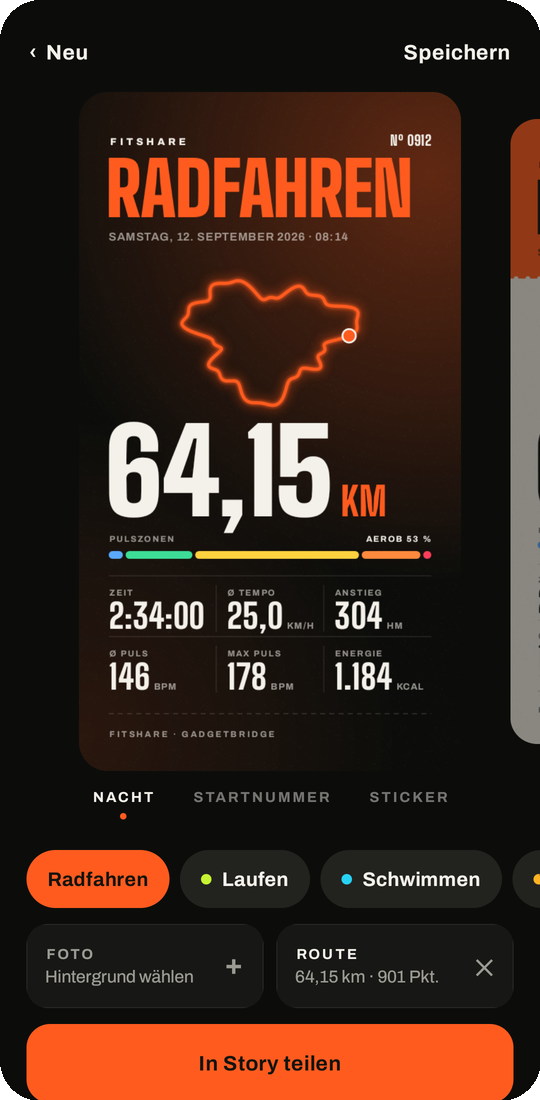
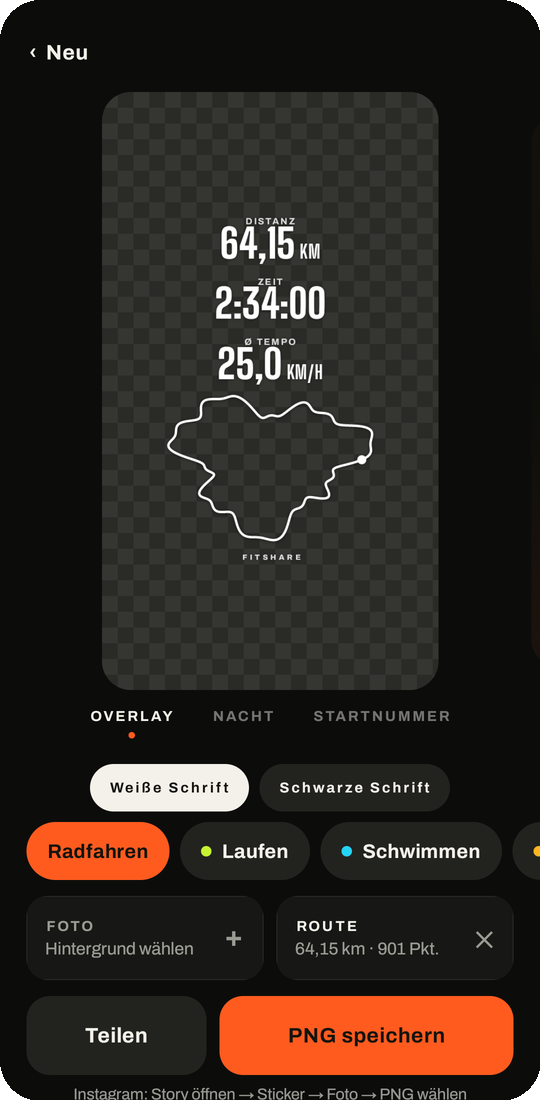
feat: Overlay-PNG im Strava-Stil als Hauptfunktion
- neuer Stil "Overlay": Distanz, Zeit, Tempo gestapelt, Route darunter,
  transparent und auf den Inhalt zugeschnitten; ersetzt den Vollbild-Sticker
- Schrift weiß oder schwarz, Vorschau auf passendem Schachbrett oder dem eigenen Foto
- "PNG speichern" ist der Hauptknopf, Teilen daneben, Instagram-Hinweis darunter
- README und Social-Preview zeigen das Overlay

diff --git a/app/src/main/java/com/fitshare/ui/screens/EditorScreen.kt b/app/src/main/java/com/fitshare/ui/screens/EditorScreen.kt
@@ -10,6 +10,7 @@ import androidx.activity.compose.BackHandler
 import androidx.activity.compose.rememberLauncherForActivityResult
 import androidx.activity.result.PickVisualMediaRequest
 import androidx.activity.result.contract.ActivityResultContracts
+import androidx.compose.animation.AnimatedVisibility
 import androidx.compose.animation.Crossfade
 import androidx.compose.animation.animateColorAsState
 import androidx.compose.foundation.Image
@@ -54,6 +55,7 @@ import androidx.compose.ui.geometry.Size
 import androidx.compose.ui.graphics.Color
 import androidx.compose.ui.graphics.asImageBitmap
 import androidx.compose.ui.graphics.graphicsLayer
+import androidx.compose.ui.layout.ContentScale
 import androidx.compose.ui.platform.LocalContext
 import androidx.compose.ui.platform.LocalView
 import androidx.compose.ui.semantics.contentDescription
@@ -109,8 +111,10 @@ fun EditorScreen(state: UiState, vm: WorkoutViewModel) {
     LaunchedEffect(pager.settledPage) { prefs.edit().putInt("style", pager.settledPage).apply() }
     val style = StoryStyle.entries[pager.currentPage]
     var busy by remember { mutableStateOf(false) }
+    var darkInk by remember { mutableStateOf(prefs.getBoolean("darkInk", false)) }
+    LaunchedEffect(darkInk) { prefs.edit().putBoolean("darkInk", darkInk).apply() }
 
-    fun renderFull() = StoryRenderer.render(ctx, workout, style, background)
+    fun renderFull() = StoryRenderer.render(ctx, workout, style, background, darkInk = darkInk)
 
     fun save() = scope.launch {
         busy = true
@@ -134,11 +138,6 @@ fun EditorScreen(state: UiState, vm: WorkoutViewModel) {
             horizontalArrangement = Arrangement.SpaceBetween
         ) {
             TextAction("‹  Neu") { vm.reset() }
-            TextAction("Speichern", enabled = !busy) {
-                val needsPermission = Build.VERSION.SDK_INT < Build.VERSION_CODES.Q &&
-                    ContextCompat.checkSelfPermission(ctx, Manifest.permission.WRITE_EXTERNAL_STORAGE) != PackageManager.PERMISSION_GRANTED
-                if (needsPermission) storagePermission.launch(Manifest.permission.WRITE_EXTERNAL_STORAGE) else save()
-            }
         }
 
         // story pages: swipe between styles; neighbours peek in, scaled back
@@ -149,9 +148,10 @@ fun EditorScreen(state: UiState, vm: WorkoutViewModel) {
             modifier = Modifier.weight(1f).fillMaxWidth().padding(vertical = 8.dp)
         ) { page ->
             val pageStyle = StoryStyle.entries[page]
-            val preview by produceState<Bitmap?>(null, workout, pageStyle, background) {
-                value = withContext(Dispatchers.Default) { StoryRenderer.render(ctx, workout, pageStyle, background, 0.5f) }
+            val preview by produceState<Bitmap?>(null, workout, pageStyle, background, darkInk) {
+                value = withContext(Dispatchers.Default) { StoryRenderer.render(ctx, workout, pageStyle, background, 0.5f, darkInk) }
             }
+            val overlay = pageStyle == StoryStyle.OVERLAY
             Box(Modifier.fillMaxSize(), contentAlignment = Alignment.Center) {
                 Box(
                     Modifier
@@ -164,11 +164,20 @@ fun EditorScreen(state: UiState, vm: WorkoutViewModel) {
                             alpha = 1f - 0.45f * off
                         }
                         .clip(RoundedCornerShape(22.dp))
-                        .then(if (pageStyle == StoryStyle.STICKER) Modifier.checkerboard() else Modifier.background(Raised))
-                        .semantics { contentDescription = "Vorschau Stil ${pageStyle.label}" }
+                        .then(if (overlay) Modifier.checkerboard(light = darkInk) else Modifier.background(Raised))
+                        .semantics { contentDescription = "Vorschau Stil ${pageStyle.label}" },
+                    contentAlignment = Alignment.Center
                 ) {
+                    // the overlay is previewed on your photo if you picked one; the PNG itself stays transparent
+                    if (overlay && background != null) {
+                        Image(background!!.asImageBitmap(), null, Modifier.fillMaxSize(), contentScale = ContentScale.Crop)
+                    }
                     Crossfade(preview, label = "preview") { bmp ->
-                        if (bmp != null) Image(bmp.asImageBitmap(), null, Modifier.fillMaxSize())
+                        if (bmp != null) Image(
+                            bmp.asImageBitmap(), null,
+                            Modifier.fillMaxSize().padding(if (overlay) 18.dp else 0.dp),
+                            contentScale = ContentScale.Fit
+                        )
                     }
                 }
             }
@@ -190,6 +199,14 @@ fun EditorScreen(state: UiState, vm: WorkoutViewModel) {
                     Spacer(Modifier.height(6.dp))
                     Box(Modifier.size(5.dp).clip(CircleShape).background(if (selected) accent else Color.Transparent))
                 }
+            }
+        }
+
+        AnimatedVisibility(style == StoryStyle.OVERLAY) {
+            Row(Modifier.fillMaxWidth().padding(top = 4.dp), horizontalArrangement = Arrangement.Center) {
+                InkOption("Weiße Schrift", selected = !darkInk) { darkInk = false }
+                Spacer(Modifier.width(8.dp))
+                InkOption("Schwarze Schrift", selected = darkInk) { darkInk = true }
             }
         }
 
@@ -252,27 +269,56 @@ fun EditorScreen(state: UiState, vm: WorkoutViewModel) {
 
         Spacer(Modifier.height(12.dp))
 
-        BigButton(
-            "In Story teilen",
-            Modifier.padding(horizontal = 20.dp),
-            color = accent,
-            busy = busy
-        ) {
-            view.performHapticFeedback(
-                if (Build.VERSION.SDK_INT >= 30) HapticFeedbackConstants.CONFIRM else HapticFeedbackConstants.VIRTUAL_KEY
-            )
-            scope.launch {
-                busy = true
-                try {
-                    val bmp = withContext(Dispatchers.Default) { renderFull() }
-                    ShareHelper.share(ctx, ShareHelper.cacheForSharing(ctx, bmp))
-                } catch (e: Exception) {
-                    Toast.makeText(ctx, "Teilen fehlgeschlagen: ${e.message}", Toast.LENGTH_LONG).show()
-                } finally {
-                    busy = false
-                }
+        Row(Modifier.fillMaxWidth().padding(horizontal = 20.dp), horizontalArrangement = Arrangement.spacedBy(10.dp)) {
+            Box(
+                Modifier
+                    .weight(0.38f)
+                    .pressable(enabled = !busy) {
+                        scope.launch {
+                            busy = true
+                            try {
+                                val bmp = withContext(Dispatchers.Default) { renderFull() }
+                                ShareHelper.share(ctx, ShareHelper.cacheForSharing(ctx, bmp))
+                            } catch (e: Exception) {
+                                Toast.makeText(ctx, "Teilen fehlgeschlagen: ${e.message}", Toast.LENGTH_LONG).show()
+                            } finally {
+                                busy = false
+                            }
+                        }
+                    }
+                    .clip(RoundedCornerShape(18.dp))
+                    .background(Raised2)
+                    .heightIn(min = 60.dp),
+                contentAlignment = Alignment.Center
+            ) {
+                Text("Teilen", style = Type.button.copy(color = Bone))
+            }
+            BigButton("PNG speichern", Modifier.weight(0.62f), color = accent, busy = busy) {
+                view.performHapticFeedback(
+                    if (Build.VERSION.SDK_INT >= 30) HapticFeedbackConstants.CONFIRM else HapticFeedbackConstants.VIRTUAL_KEY
+                )
+                val needsPermission = Build.VERSION.SDK_INT < Build.VERSION_CODES.Q &&
+                    ContextCompat.checkSelfPermission(ctx, Manifest.permission.WRITE_EXTERNAL_STORAGE) != PackageManager.PERMISSION_GRANTED
+                if (needsPermission) storagePermission.launch(Manifest.permission.WRITE_EXTERNAL_STORAGE) else save()
             }
         }
+        Text(
+            if (style == StoryStyle.OVERLAY) "Instagram: Story öffnen → Sticker → Foto → PNG wählen"
+            else "Fertige Story 1080 × 1920, als Hintergrund in Instagram",
+            style = Type.body.copy(fontSize = Type.label.fontSize * 1.1f),
+            modifier = Modifier.align(Alignment.CenterHorizontally).padding(top = 8.dp)
+        )
+    }
+}
+
+@Composable
+private fun InkOption(text: String, selected: Boolean, onClick: () -> Unit) {
+    val bg by animateColorAsState(if (selected) Bone else Raised2, uiSpring(), label = "ink")
+    Box(
+        Modifier.pressable(onClick = onClick).clip(CircleShape).background(bg).heightIn(min = 36.dp).padding(horizontal = 14.dp),
+        contentAlignment = Alignment.Center
+    ) {
+        Text(text, style = Type.label.copy(color = if (selected) OnAccent else Bone))
     }
 }
 
@@ -324,13 +370,13 @@ private fun ToolTile(
 }
 
 /** Grey checkerboard behind the transparent sticker preview, like any image editor. */
-private fun Modifier.checkerboard() = drawBehind {
+private fun Modifier.checkerboard(light: Boolean) = drawBehind {
     val tile = 12.dp.toPx()
-    drawRect(Color(0xFF2A2B27))
+    drawRect(if (light) Color(0xFFE9E6DE) else Color(0xFF2A2B27))
     var y = 0f; var row = 0
     while (y < size.height) {
         var x = if (row % 2 == 0) 0f else tile
-        while (x < size.width) { drawRect(Color(0xFF353631), Offset(x, y), Size(tile, tile)); x += tile * 2 }
+        while (x < size.width) { drawRect(if (light) Color(0xFFD9D5CB) else Color(0xFF353631), Offset(x, y), Size(tile, tile)); x += tile * 2 }
         y += tile; row++
     }
 }

diff --git a/app/src/main/java/com/fitshare/export/StoryRenderer.kt b/app/src/main/java/com/fitshare/export/StoryRenderer.kt
@@ -34,9 +34,9 @@ import kotlin.math.roundToInt
 import kotlin.random.Random
 
 enum class StoryStyle(val label: String) {
+    OVERLAY("Overlay"),
     NIGHT("Nacht"),
-    BIB("Startnummer"),
-    STICKER("Sticker")
+    BIB("Startnummer")
 }
 
 /**
@@ -64,8 +64,10 @@ object StoryRenderer {
         workout: Workout,
         style: StoryStyle,
         background: Bitmap?,
-        scale: Float = 1f
+        scale: Float = 1f,
+        darkInk: Boolean = false
     ): Bitmap {
+        if (style == StoryStyle.OVERLAY) return renderOverlay(context, workout, darkInk, scale)
         val bmp = Bitmap.createBitmap((W * scale).roundToInt(), (H * scale).roundToInt(), Bitmap.Config.ARGB_8888)
         val c = Canvas(bmp)
         c.scale(scale, scale)
@@ -73,11 +75,81 @@ object StoryRenderer {
         val pal = when (style) {
             StoryStyle.NIGHT -> Palette(BONE, alpha(BONE, 0.58f), alpha(BONE, 0.16f), accent, false)
             StoryStyle.BIB -> Palette(INK, alpha(INK, 0.6f), alpha(INK, 0.2f), INK, false)
-            StoryStyle.STICKER -> Palette(Color.WHITE, alpha(Color.WHITE, 0.85f), alpha(Color.WHITE, 0.45f), accent, true)
+            StoryStyle.OVERLAY -> error("drawn by renderOverlay")
         }
         drawBackground(c, style, accent, background)
         drawContent(c, context, workout, style, pal)
         return bmp
+    }
+
+    // ---------------------------------------------------------------- overlay
+
+    /**
+     * Transparent PNG cropped to its content: up to three stats stacked and centred, the route
+     * below, a small wordmark. Meant to be added as a photo sticker on top of your own Instagram story.
+     */
+    fun renderOverlay(context: Context, workout: Workout, darkInk: Boolean, scale: Float = 1f): Bitmap {
+        val ink = if (darkInk) INK else Color.WHITE
+        val shade = if (darkInk) 0x55FFFFFF else 0x66000000
+        fun paint(tf: Typeface, size: Float, color: Int, tracking: Float = 0f) =
+            Paint(Paint.ANTI_ALIAS_FLAG).apply {
+                typeface = tf; textSize = size; this.color = color; letterSpacing = tracking
+                textAlign = Paint.Align.CENTER
+                setShadowLayer(10f, 0f, 2f, shade)
+            }
+        val content = workout.storyContent()
+        val stats = (listOf(content.hero) + content.cells).distinct().take(3)
+        val label = paint(Fonts.text(context, 700), 34f, alpha(ink, 0.85f), 0.16f)
+        val value = paint(Fonts.display(context, 800), 150f, ink, -0.01f)
+        val unit = paint(Fonts.display(context, 700), 70f, ink, 0.02f)
+        val brand = paint(Fonts.text(context, 800), 28f, alpha(ink, 0.85f), 0.34f)
+
+        val route = workout.route
+        val routeSize = route?.let { fitRouteBox(it, 760f, 560f) }
+        val pad = 40f
+        val statH = 44f + 150f * 0.78f + 64f
+        val height = pad + stats.size * statH + (routeSize?.let { it.second + 40f } ?: 0f) + 60f + pad
+
+        val bmp = Bitmap.createBitmap((W * scale).roundToInt(), (height * scale).roundToInt(), Bitmap.Config.ARGB_8888)
+        val c = Canvas(bmp)
+        c.scale(scale, scale)
+        val cx = W / 2
+        var y = pad
+        for (st in stats) {
+            c.drawText(st.label.uppercase(Locale.GERMAN), cx, y + 34f, label)
+            fitWidth(value, st.value, W - 160f - if (st.unit.isEmpty()) 0f else unit.measureText(st.unit) + 16f)
+            val base = y + 44f + value.textSize * 0.78f
+            if (st.unit.isEmpty()) c.drawText(st.value, cx, base, value)
+            else {
+                // centre value + unit as one group
+                val vw = value.measureText(st.value); val uw = unit.measureText(st.unit) + 16f
+                val left = cx - (vw + uw) / 2
+                c.drawText(st.value, left + vw / 2, base, value)
+                c.drawText(st.unit, left + vw + uw / 2 + 8f, base, unit)
+            }
+            y += statH
+            value.textSize = 150f
+        }
+        if (route != null && routeSize != null) {
+            val (rw, rh) = routeSize
+            val box = RectF(cx - rw / 2, y, cx + rw / 2, y + rh)
+            drawRoute(c, route, box, StoryStyle.OVERLAY, Palette(ink, ink, ink, ink, true), ink)
+            y += rh + 40f
+        }
+        c.drawText("FITSHARE", cx + 5f, y + 34f, brand) // +5: letter-spacing trails the last glyph
+        return bmp
+    }
+
+    /** Size of the box the route needs inside maxW × maxH, keeping its real proportions. */
+    private fun fitRouteBox(route: Route, maxW: Float, maxH: Float): Pair<Float, Float>? {
+        val all = route.segments.flatten()
+        val minLat = all.minOf { it.lat }; val maxLat = all.maxOf { it.lat }
+        val kx = cos(Math.toRadians((minLat + maxLat) / 2))
+        val spanX = (all.maxOf { it.lon } - all.minOf { it.lon }) * kx
+        val spanY = maxLat - minLat
+        if (spanX < 1e-7 && spanY < 1e-7) return null
+        val s = minOf(maxW / spanX.coerceAtLeast(1e-9), maxH / spanY.coerceAtLeast(1e-9))
+        return Pair(max(60f, (spanX * s).toFloat()), max(60f, (spanY * s).toFloat()))
     }
 
     // ---------------------------------------------------------------- background
@@ -113,7 +185,7 @@ object StoryRenderer {
                 }
                 grain(c, INK, 0.05f)
             }
-            StoryStyle.STICKER -> Unit // transparent PNG, to lay over your own photo in Instagram
+            StoryStyle.OVERLAY -> Unit
         }
     }
 
@@ -304,6 +376,11 @@ object StoryRenderer {
 
         val start = all.first(); val end = all.last()
         val dot = Paint(Paint.ANTI_ALIAS_FLAG)
+        if (style == StoryStyle.OVERLAY) { // transparent canvas: hollow start ring, solid end dot
+            c.drawCircle(px(start), py(start), 14f, dot.apply { color = pal.fg; setStyle(Paint.Style.STROKE); strokeWidth = 6f })
+            c.drawCircle(px(end), py(end), 16f, dot.apply { color = pal.fg; setStyle(Paint.Style.FILL) })
+            return
+        }
         c.drawCircle(px(start), py(start), 17f, dot.apply { color = pal.fg; setStyle(Paint.Style.FILL) })
         c.drawCircle(px(start), py(start), 9f, dot.apply { color = if (style == StoryStyle.BIB) PAPER else NIGHT })
         c.drawCircle(px(end), py(end), 19f, dot.apply { color = accent })

diff --git a/app/src/main/java/com/fitshare/ui/screens/ImportScreen.kt b/app/src/main/java/com/fitshare/ui/screens/ImportScreen.kt
@@ -77,7 +77,7 @@ fun ImportScreen(state: UiState, onOpen: (List<android.net.Uri>) -> Unit) {
         Spacer(Modifier.height(36.dp))
         Step(3, "01", "Workout", "Gadgetbridge → Aktivität → Teilen. Die .json-Datei.")
         Step(4, "02", "Route", "Optional: GPX, KML oder KMZ, zum Beispiel aus OpenTracks.")
-        Step(5, "03", "Stil", "Wischen, Sportart wählen, Foto drunter, teilen.")
+        Step(5, "03", "PNG", "Overlay speichern und in Instagram als Foto-Sticker einfügen.")
         Box(Modifier.fillMaxWidth().height(1.dp).background(Hairline))
         Spacer(Modifier.height(40.dp))
 

diff --git a/README.md b/README.md
@@ -1,6 +1,6 @@
 <h1 align="center">FitShare – Gadgetbridge-Workouts als Instagram-Story</h1>
 
-<p align="center"><strong>Android-App, die aus deinem Gadgetbridge-Export und deiner GPS-Route eine fertige Instagram-Story (1080 × 1920) macht. Offline, ohne Konto.</strong></p>
+<p align="center"><strong>Android-App, die aus deinem Gadgetbridge-Export und deiner GPS-Route eine fertige Instagram-Story (1080 × 1920) macht: als transparentes PNG im Strava-Stil zum Einfügen in deine Story, oder als fertiges Bild. Offline, ohne Konto.</strong></p>
 
 <p align="center">
   <a href="https://kotlinlang.org/"><img alt="Gebaut mit Kotlin" src="https://img.shields.io/badge/gebaut_mit-Kotlin-0C0D0B?style=for-the-badge&logo=kotlin&logoColor=C6F432"></a>
@@ -24,16 +24,17 @@
 Gadgetbridge zeichnet Workouts von Mi Band, Amazfit und anderen Uhren ohne Hersteller-Cloud auf. Einen Teilen-Knopf wie bei Mi Fitness, Strava oder Garmin Connect hat es aber nicht. FitShare schließt die Lücke: Workout-JSON rein, Route dazu, Story teilen.
 
 <p align="center">
+  <img src="docs/bilder/0-overlay.png" width="240" alt="FitShare Overlay: transparentes PNG mit Distanz, Zeit, Tempo und GPS-Route, als Sticker über ein eigenes Foto in der Instagram-Story gelegt">
   <img src="docs/bilder/1-nacht.png" width="240" alt="FitShare Instagram-Story im Stil Nacht: Radfahren 64,15 km mit leuchtender GPS-Route, Pulszonen, Tempo und Höhenmetern">
   <img src="docs/bilder/2-startnummer.png" width="240" alt="FitShare Instagram-Story im Stil Startnummer: Papier-Look mit orangem Kopfbalken, Route und Trainingswerten">
-  <img src="docs/bilder/3-sticker.png" width="240" alt="FitShare Sticker-Stil: transparentes PNG mit Workout-Werten über einem eigenen Foto">
 </p>
 
 <p align="center"><sub>Die Bilder zeigen eine erfundene Demo-Runde, keine echte Strecke.</sub></p>
 
 ## Funktionen
 
-- 🎟 **Drei Stile zum Durchwischen**: *Nacht* (dunkel, leuchtende Route), *Startnummer* (Papier mit Farbbalken wie eine Startnummer) und *Sticker* (transparentes PNG zum Drüberlegen in Instagram).
+- 🪄 **Overlay wie bei Strava**: Distanz, Zeit und Tempo untereinander, die Route darunter, transparenter Hintergrund, eng zugeschnitten. In Instagram als Foto-Sticker über dein eigenes Bild legen. Schrift weiß oder schwarz, je nach Foto.
+- 🎟 **Oder fertige Story-Bilder**: *Nacht* (dunkel, leuchtende Route) und *Startnummer* (Papier mit Farbbalken wie eine Startnummer), beide 1080 × 1920.
 - 🗺 **Route aus GPX, KML oder KMZ**: OpenTracks-Exporte funktionieren direkt. Fehlt im Gadgetbridge-Export die Distanz (beim Mi Band 10 üblich), rechnet FitShare sie aus der Route, dazu die Höhenmeter.
 - 🚴 **Sportart erkannt oder gewählt**: Radfahren, Laufen, Schwimmen, Wandern oder Training. Jede Sportart hat eigene Kennzahlen und eine eigene Farbe.
 - ❤ **Pulszonen**: Die fünf Gadgetbridge-Zonen erscheinen als Balken.
@@ -50,8 +51,8 @@ Android 8.0 oder neuer. APKs baut der Workflow [Build & Release APK](.github/wor
 
 1. In Gadgetbridge die Aktivität öffnen und als JSON teilen oder exportieren. Optional die Route aus OpenTracks als KMZ oder GPX.
 2. In FitShare **Dateien wählen** und beide auf einmal markieren. Alternativ beide nacheinander an FitShare teilen.
-3. Stil wischen, Sportart antippen, Foto drunterlegen.
-4. **In Story teilen** tippen und Instagram auswählen.
+3. Sportart prüfen, beim Overlay weiße oder schwarze Schrift wählen.
+4. **PNG speichern** tippen. In Instagram: Story öffnen → Sticker → Foto → das PNG wählen. Die fertigen Story-Bilder (Nacht, Startnummer) gehen auch direkt über **Teilen**.
 
 <p align="center">
   <img src="docs/bilder/app-start.png" width="240" alt="FitShare Startbildschirm: Dateien aus Gadgetbridge und OpenTracks wählen">
